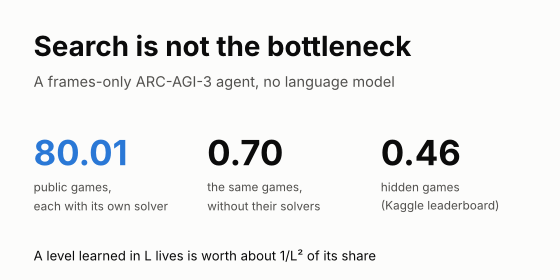
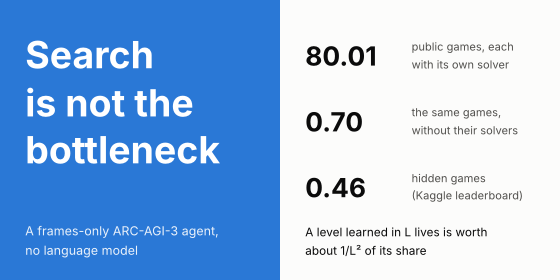
Thumbnail: left half a square title tile, for Kaggle's square crop
Kaggle cuts the thumbnail as a square from the card image; centred, it cut the title
and the scores. The left 280 x 280 now stands alone, the scores sit on the right.

Claude-Session: https://claude.ai/code/session_01MfmmW8inCoM5xJ7yFAGgts

diff --git a/paper/make_thumbnail.py b/paper/make_thumbnail.py
@@ -1,27 +1,33 @@
-"""The writeup's card and thumbnail image, 560 x 280 as Kaggle asks: the cover's message with
-only what still reads at that size. Writes paper/thumbnail.png."""
+"""The writeup's card and thumbnail image, 560 x 280 as Kaggle asks. The card shows all of it; the
+thumbnail is a square cut from it, so the left half is a square that stands alone (the title) and
+the right half carries the scores. Writes paper/thumbnail.png."""
 from pathlib import Path
 
 import matplotlib
 matplotlib.use("Agg")
 import matplotlib.pyplot as plt
+from matplotlib.patches import Rectangle
 
 plt.rcParams["font.family"] = "Inter"
-SURFACE, INK, INK2, MUTED, SERIES = "#fcfcfb", "#0b0b0b", "#52514e", "#8a8984", "#2a78d6"
+SURFACE, INK, INK2, SERIES, ON_SERIES = "#fcfcfb", "#0b0b0b", "#52514e", "#2a78d6", "#ffffff"
 STATS = [  # value, label (two lines)
-    ("80.01", "public games,\neach with its own solver"),
+    ("80.01", "public games, each\nwith its own solver"),
     ("0.70", "the same games,\nwithout their solvers"),
     ("0.46", "hidden games\n(Kaggle leaderboard)"),
 ]
 
 fig = plt.figure(figsize=(5.6, 2.8), dpi=100, facecolor=SURFACE)
-fig.text(0.06, 0.80, "Search is not the bottleneck", fontsize=20, fontweight="bold", color=INK)
-fig.text(0.06, 0.69, "A frames-only ARC-AGI-3 agent, no language model", fontsize=10.5, color=INK2)
+fig.patches.append(Rectangle((0, 0), 0.5, 1, transform=fig.transFigure, facecolor=SERIES, linewidth=0))
+fig.text(0.045, 0.89, "Search\nis not the\nbottleneck", fontsize=27, fontweight="bold", color=ON_SERIES,
+         va="top", linespacing=1.05)
+fig.text(0.045, 0.09, "A frames-only ARC-AGI-3 agent,\nno language model", fontsize=9, color=ON_SERIES,
+         alpha=0.9, linespacing=1.3)
 for i, (value, label) in enumerate(STATS):
-    x = 0.06 + i * 0.31
-    fig.text(x, 0.41, value, fontsize=25, fontweight="bold", color=SERIES if i == 0 else INK)
-    fig.text(x, 0.36, label, fontsize=8.5, color=INK2, va="top", linespacing=1.25)
-fig.text(0.06, 0.07, "A level learned in L lives is worth about 1/L² of its share", fontsize=9.5, color=INK)
+    y = 0.80 - i * 0.235
+    fig.text(0.545, y, value, fontsize=19, fontweight="bold", color=INK, va="center")
+    fig.text(0.735, y, label, fontsize=8, color=INK2, va="center", linespacing=1.25)
+fig.text(0.545, 0.09, "A level learned in L lives is worth\nabout 1/L² of its share", fontsize=8.5, color=INK,
+         linespacing=1.3)
 out = Path(__file__).resolve().parent / "thumbnail.png"
 fig.savefig(out, facecolor=SURFACE)
 print("wrote", out)
